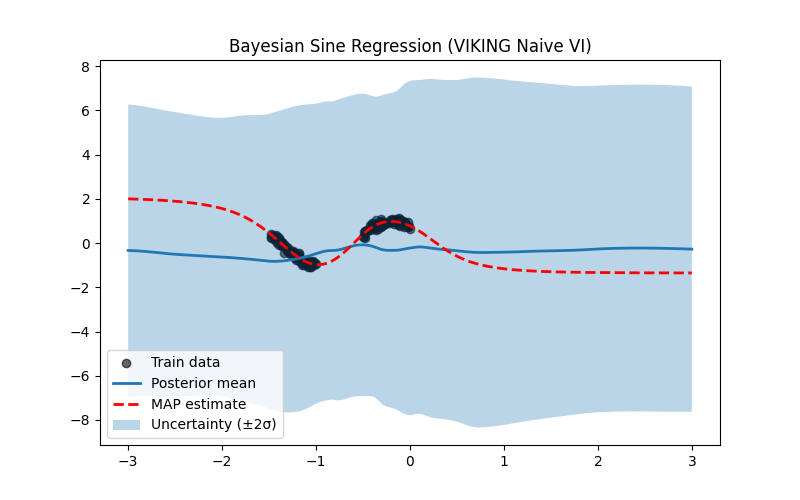
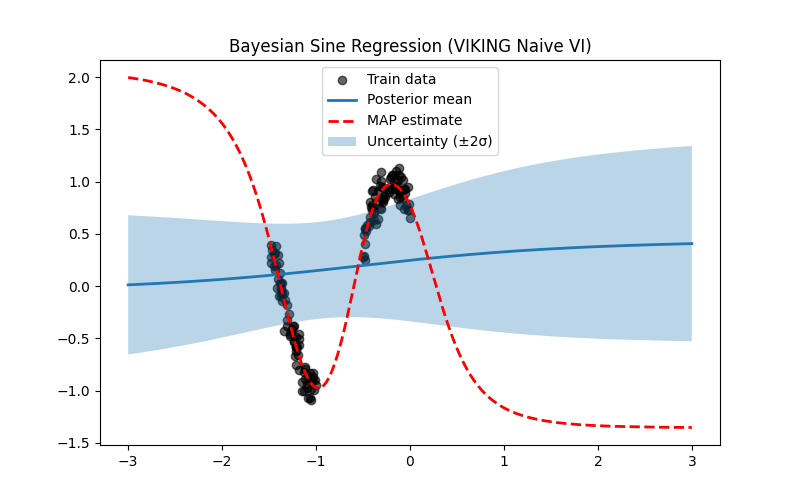
results with alpha tied to sigma, results with log sigma for prior version

diff --git a/experiments/VIKING_sine_curve.py b/experiments/VIKING_sine_curve.py
@@ -96,7 +96,8 @@ def KL_term(prior_vec, theta_hat, sigma_ker, sigma_im, eps_samples, eps_ker_samp
 def KL_term_alpha(alpha_inv, theta_hat, sigma_ker, sigma_im, eps_samples, eps_ker_samples):
     sigma_ker_2 = jnp.exp(sigma_ker) ** 2
     sigma_im_2 = jnp.exp(sigma_im) ** 2
-    alpha = 1.0 / alpha_inv
+    #alpha = 1.0 / alpha_inv
+    alpha = 1.0 / sigma_ker_2
     num_samples, D = eps_samples.shape
 
     R = jnp.mean(jnp.sum(eps_samples * eps_ker_samples, axis=1))  # shape (S,) -> mean -> shape(1,)
@@ -126,23 +127,23 @@ def loss_fn(params_opt, model_fn_vec, UUt, x, y, sample_key, prior_vec):
     rec_term = reconstruction_term(model_fn_vec, thetas, x, y)
 
     # KL term
-    """ kl = KL_term(
+    kl = KL_term(
         prior_vec=prior_vec,
         theta_hat=params_opt["theta"],
         sigma_ker=params_opt["sigma_ker"],
         sigma_im=params_opt["sigma_im"],
         eps_samples=eps_samples,
         eps_ker_samples=eps_ker_samples
-    ) """
+    )
 
-    kl = KL_term_alpha(
+    """ kl = KL_term_alpha(
         alpha_inv = prior_vec,
         theta_hat=params_opt["theta"],
         sigma_ker=params_opt["sigma_ker"],
         sigma_im=params_opt["sigma_im"],
         eps_samples=eps_samples,
         eps_ker_samples=eps_ker_samples
-    )
+    ) """
 
     elbo = rec_term - kl
     
@@ -168,11 +169,12 @@ def main():
     alpha_inv = 1.0 / 0.5
 
     sigma_kernel_key, sigma_image_key = jax.random.split(jax.random.PRNGKey(SEED))
-    sigma_kernel = jnp.exp(jax.random.normal(sigma_kernel_key))
-    sigma_image = jnp.exp(jax.random.normal(sigma_image_key))
+    sigma_kernel = 0.3
+    sigma_image = 0.6
     _, sample_key = jax.random.split(jax.random.PRNGKey(SEED))
 
     params_opt = {
+        #"prior_vec": prior_vec,
         "theta": params_vec,
         "sigma_ker": jnp.log(sigma_kernel),
         "sigma_im": jnp.log(sigma_image),
@@ -194,15 +196,15 @@ def main():
         key, subkey = jax.random.split(key)
         grad_fn = jax.value_and_grad(loss_fn, argnums=0, has_aux=True)
         (loss, (rec_term, kl)), grads = grad_fn(
-            params_opt, model_fn_vec, UUt, x_train, y_train, subkey, alpha_inv
+            params_opt, model_fn_vec, UUt, x_train, y_train, subkey, prior_vec
         )
         updates, opt_state = optimizer.update(grads, opt_state)
         params_opt = optax.apply_updates(params_opt, updates)
         return loss, params_opt, opt_state, rec_term, kl
     
     jit_train_step = jax.jit(train_step)
-    num_epochs = 1000  # or however many you want
-    log_every = 25
+    num_epochs = 3000  # or however many you want
+    log_every = 75
 
     params_opt_current = params_opt
     opt_state_current = opt_state

diff --git a/src/check_sigmas.py b/src/check_sigmas.py
@@ -1,4 +1,5 @@
 import pickle
+import jax.numpy as jnp
 
 # Load model, extract params...
 with open("./checkpoints/sine_VIKING.pickle", "rb") as f:
@@ -6,5 +7,5 @@ with open("./checkpoints/sine_VIKING.pickle", "rb") as f:
 
 elbo_stats = checkpoint["elbo_params"]
 
-print(f"Sigma_ker = {elbo_stats["sigma_ker"]}")
-print(f"Sigma_im = {elbo_stats["sigma_im"]}")
+print(f"Sigma_ker = {jnp.exp(elbo_stats["sigma_ker"])}")
+print(f"Sigma_im = {jnp.exp(elbo_stats["sigma_im"])}")
